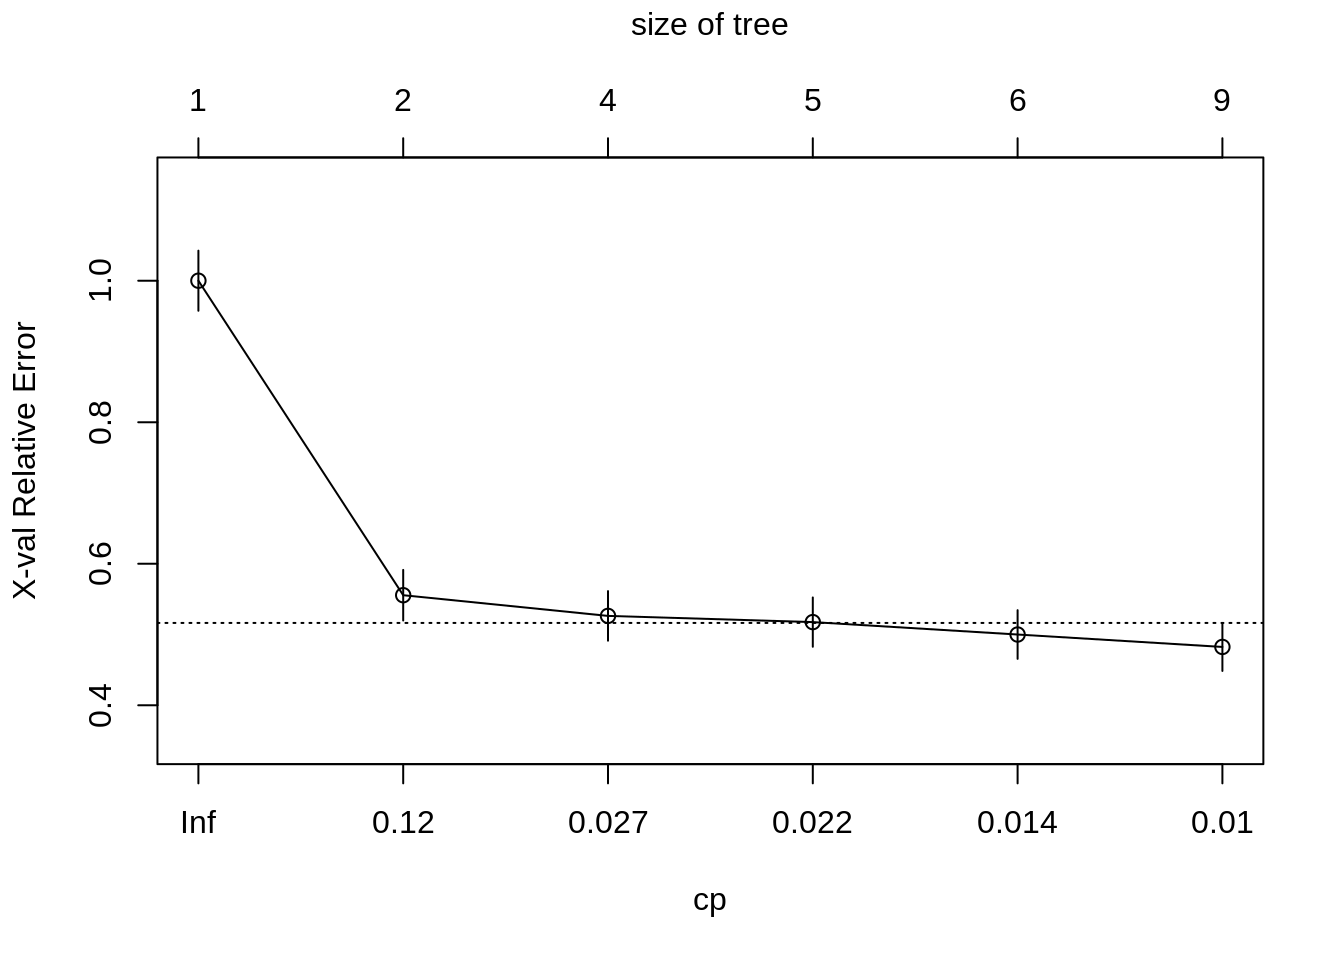
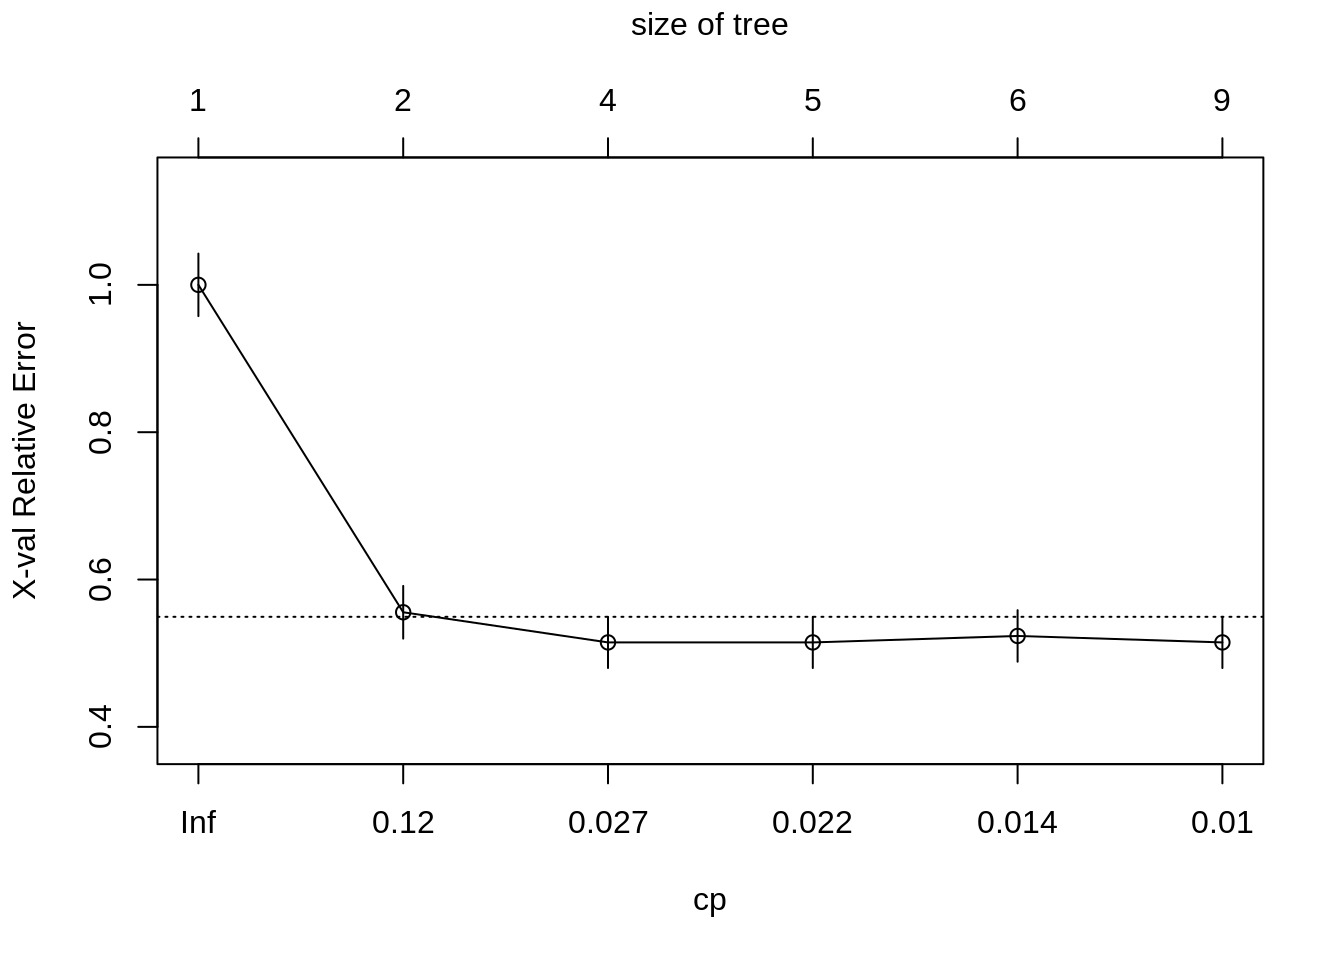
Deploy lebebr01/stat_thinking to github.com/lebebr01/stat_thinking.git:master

diff --git a/docs/descriptive-statistics-numerically-describing-the-sample-data.html b/docs/descriptive-statistics-numerically-describing-the-sample-data.html
@@ -561,6 +561,82 @@ Y = \begin{pmatrix}10 - 24\\ 10-24\\ 20-24\\ 30-24\\ 50-24\end{pmatrix} = \begin
 <pre><code>##   mae_adm_rate
 ## 1    0.1692953</code></pre>
 <!-- This is a test. -->
+<!-- ## Considering Groups -->
+<!-- We've spent a lot of time trying to reason about other variables that may be important in explaining variation in our variable of interest. So far we have only explored the variable without considering other variables, in practice that is not that useful. -->
+<!-- Instead, it is common to compute conditional statistics based on other characteristics in the data. An example may help to show the idea more clearly. -->
+<!-- ```{r} -->
+<!-- colleges %>% -->
+<!--   df_stats(adm_rate ~ region, median) -->
+<!-- ``` -->
+<!-- Presented above are the conditional medians for the higher education institutions in different areas of the country. More specifically, the data are essentially split into subgroups and the median is computed for each of those subgroups instead of pooling all institutions into a single data frame. The formula syntax is now `outcome ~ grouping` where the variable of interest (i.e. commonly a numeric variable) and the variable to the right of the `~` is the grouping variable. This syntax is similar to the violin plots that were created earlier. -->
+<!-- Can you see differences in the admission rates across the regions? -->
+<!-- One thing that is useful to add in when computing conditional statisics, is how many data points are in each group. This is particularly useful when the groups are different sizes, which is common. To do this, we can add another function to the `df_stats()` function. -->
+<!-- ```{r} -->
+<!-- colleges %>% -->
+<!--   df_stats(adm_rate ~ region, median, length) -->
+<!-- ``` -->
+<!-- This adds another columns which represents the number of observations that went into the median calculation for each group. The syntax above also shows that you can add additional functions separated by a comma in the `df_stats()` function and are not limited to a single function. We will take advantage of this feature later on. -->
+<!-- ### Adding additional groups -->
+<!-- What if we thought more than one variable was important in explaining variation in the outcome variable? These can also be added to the `df_stats()` function for additional conditional statistics. The key is to add another variable to the right-hand side of the formula argument. More than one variable are separated with a `+` symbol. -->
+<!-- ```{r} -->
+<!-- colleges %>% -->
+<!--   df_stats(adm_rate ~ region + preddeg, median, length) -->
+<!-- ``` -->
+<!-- ## Other statistics of center -->
+<!-- So far we have been discussing the median. The median attempts to provide a single number summary for the center of the distribution. It is a robust statistic, but likely isn't the most popular statistic to provide a location for the center of a distribution. The mean is often more commonly used as a measure of the center of a distribution. Part of this is due to the usage of the mean in common statistical methods and the mean also uses the values of all the data in the calculation. The median only considers the values of the middle score or scores, therefore this statistic is less sensitive to extreme values than the mean. I like to look at both statistics and this can provide some insight into the distribution of interest. We can add the mean using the `df_stats()` function by adding the function `mean`. -->
+<!-- ```{r} -->
+<!-- stats_compute <- colleges %>% -->
+<!--   df_stats(adm_rate ~ region, median, mean, length) -->
+<!-- stats_compute -->
+<!-- ``` -->
+<!-- Do you notice any trends in the direction the mean and median typically follow? More specifically, is the mean typically larger than the median or vice versa? -->
+<!-- Let's visualize them. -->
+<!-- ```{r} -->
+<!-- gf_histogram(~ adm_rate, data = colleges, bins = 30) %>% -->
+<!--   gf_facet_wrap(~ region) %>% -->
+<!--   gf_vline(color = 'blue', xintercept = ~ median_adm_rate, data = stats_compute, size = 1) %>% -->
+<!--   gf_vline(color = 'lightblue', xintercept = ~ mean_adm_rate, data = stats_compute, size = 1) -->
+<!-- ``` -->
+<!-- What is different about the distributions that have larger differences in the mean and median? -->
+<!-- ## Measures of Variation -->
+<!-- So far we have focused primarily on applying functions to columns of data to provide a single numeric summary for where the center of the distribution may lie. The center of the distribution is important, however the primary goal in research and with statistics is to try to understand the variation in the distribution. -->
+<!-- One crude measure of variation that is intuitive is the range of a variable. The range is the difference between the smallest and the largest number in the data. We can compute this with the `df_stats()` function. -->
+<!-- ```{r} -->
+<!-- colleges %>% -->
+<!--   df_stats(~ adm_rate, range) -->
+<!-- ``` -->
+<!-- The details of the `df_stats()` function are in the previous course notes. The output for this computation returns two values, the minimum and maximum value in the data and unsurprisingly, is 0 and 1 respectively.  -->
+<!-- ### Robust measure of variation -->
+<!-- The idea behind the IQR representing differences in percentiles allows us to extend this to different percentiles that may be more directly interpretable for a given situation. For example, suppose we wanted to know how spread out the middle 80% of the distribution is. We can do this directly by computing the 90th and 10th percentiles and finding the difference between the two. -->
+<!-- ```{r} -->
+<!-- mid_80 <- colleges %>% -->
+<!--   df_stats(~ adm_rate, quantile(c(0.1, 0.9)), nice_names = TRUE) -->
+<!-- mid_80 -->
+<!-- ``` -->
+<!-- As you can see, once you extend the amount of the distribution contained, the distance increases, now to 0.555 or 55.5% the the range of the middle 80% of the admission rate distribution. We can also visualize what this looks like. -->
+<!-- ```{r} -->
+<!-- gf_histogram(~ adm_rate, data = colleges, bins = 30, color = 'black') %>% -->
+<!--   gf_vline(color = 'blue', xintercept = ~ value, data = gather(mid_80), size = 1) -->
+<!-- ``` -->
+<!-- We can also view the exact percentages using the empirical cumulative density function. -->
+<!-- ```{r} -->
+<!-- gf_ecdf(~ adm_rate, data = colleges) %>% -->
+<!--   gf_vline(color = 'blue', xintercept = ~ value, data = gather(mid_80), size = 1) -->
+<!-- ``` -->
+<!-- ### Variation by Group -->
+<!-- These statistics can also be calculated by different grouping variables similar to what was done with statisitcs of center. Now the variable of interest is on the left-hand side of the equation and the grouping variable is on the right hand side. -->
+<!-- ```{r} -->
+<!-- iqr_groups <- colleges %>% -->
+<!--   df_stats(adm_rate ~ region, IQR, quantile(c(0.25, 0.75)), nice_names = TRUE) -->
+<!-- iqr_groups -->
+<!-- ``` -->
+<!-- This can also be visualized to see how these statistics vary across the groups. -->
+<!-- ```{r} -->
+<!-- gf_histogram(~ adm_rate, data = colleges, bins = 30, color = 'black') %>% -->
+<!--   gf_vline(color = 'blue', xintercept = ~ value,  -->
+<!--      data = filter(pivot_longer(iqr_groups, IQR_adm_rate:'X75.'), name %in% c('X25.', 'X75.')), size = 1) %>% -->
+<!--   gf_facet_wrap(~ region) -->
+<!-- ``` -->
 
 </div>
 </div>

diff --git a/docs/classification.html b/docs/classification.html
@@ -324,10 +324,10 @@ titanic &lt;-<span class="st"> </span><span class="kw">bind_rows</span>(titanic_
 ##         CP nsplit rel error  xerror     xstd
 ## 1 0.444444      0   1.00000 1.00000 0.042446
 ## 2 0.030702      1   0.55556 0.55556 0.035750
-## 3 0.023392      3   0.49415 0.52632 0.035043
-## 4 0.020468      4   0.47076 0.51754 0.034823
-## 5 0.010234      5   0.45029 0.50000 0.034372
-## 6 0.010000      8   0.41813 0.48246 0.033904</code></pre>
+## 3 0.023392      3   0.49415 0.51462 0.034749
+## 4 0.020468      4   0.47076 0.51462 0.034749
+## 5 0.010234      5   0.45029 0.52339 0.034970
+## 6 0.010000      8   0.41813 0.51462 0.034749</code></pre>
 <div class="sourceCode"><pre class="sourceCode r"><code class="sourceCode r"><span class="kw">plotcp</span>(class_tree)</code></pre></div>
 <p><img src="05-classification_files/figure-html/unnamed-chunk-6-1.png" width="672" /></p>
 <div class="sourceCode"><pre class="sourceCode r"><code class="sourceCode r">prune_class_tree &lt;-<span class="st"> </span><span class="kw">prune</span>(class_tree, <span class="dt">cp =</span> .<span class="dv">02</span>)

diff --git a/docs/03-descriptive.md b/docs/03-descriptive.md
@@ -711,3 +711,112 @@ colleges %>%
 
 <!-- This is a test. -->
 
+<!-- ## Considering Groups -->
+<!-- We've spent a lot of time trying to reason about other variables that may be important in explaining variation in our variable of interest. So far we have only explored the variable without considering other variables, in practice that is not that useful. -->
+
+<!-- Instead, it is common to compute conditional statistics based on other characteristics in the data. An example may help to show the idea more clearly. -->
+
+<!-- ```{r} -->
+<!-- colleges %>% -->
+<!--   df_stats(adm_rate ~ region, median) -->
+<!-- ``` -->
+
+<!-- Presented above are the conditional medians for the higher education institutions in different areas of the country. More specifically, the data are essentially split into subgroups and the median is computed for each of those subgroups instead of pooling all institutions into a single data frame. The formula syntax is now `outcome ~ grouping` where the variable of interest (i.e. commonly a numeric variable) and the variable to the right of the `~` is the grouping variable. This syntax is similar to the violin plots that were created earlier. -->
+
+<!-- Can you see differences in the admission rates across the regions? -->
+
+<!-- One thing that is useful to add in when computing conditional statisics, is how many data points are in each group. This is particularly useful when the groups are different sizes, which is common. To do this, we can add another function to the `df_stats()` function. -->
+
+<!-- ```{r} -->
+<!-- colleges %>% -->
+<!--   df_stats(adm_rate ~ region, median, length) -->
+<!-- ``` -->
+
+<!-- This adds another columns which represents the number of observations that went into the median calculation for each group. The syntax above also shows that you can add additional functions separated by a comma in the `df_stats()` function and are not limited to a single function. We will take advantage of this feature later on. -->
+
+<!-- ### Adding additional groups -->
+<!-- What if we thought more than one variable was important in explaining variation in the outcome variable? These can also be added to the `df_stats()` function for additional conditional statistics. The key is to add another variable to the right-hand side of the formula argument. More than one variable are separated with a `+` symbol. -->
+
+<!-- ```{r} -->
+<!-- colleges %>% -->
+<!--   df_stats(adm_rate ~ region + preddeg, median, length) -->
+<!-- ``` -->
+
+<!-- ## Other statistics of center -->
+<!-- So far we have been discussing the median. The median attempts to provide a single number summary for the center of the distribution. It is a robust statistic, but likely isn't the most popular statistic to provide a location for the center of a distribution. The mean is often more commonly used as a measure of the center of a distribution. Part of this is due to the usage of the mean in common statistical methods and the mean also uses the values of all the data in the calculation. The median only considers the values of the middle score or scores, therefore this statistic is less sensitive to extreme values than the mean. I like to look at both statistics and this can provide some insight into the distribution of interest. We can add the mean using the `df_stats()` function by adding the function `mean`. -->
+
+<!-- ```{r} -->
+<!-- stats_compute <- colleges %>% -->
+<!--   df_stats(adm_rate ~ region, median, mean, length) -->
+<!-- stats_compute -->
+<!-- ``` -->
+
+<!-- Do you notice any trends in the direction the mean and median typically follow? More specifically, is the mean typically larger than the median or vice versa? -->
+
+<!-- Let's visualize them. -->
+
+<!-- ```{r} -->
+<!-- gf_histogram(~ adm_rate, data = colleges, bins = 30) %>% -->
+<!--   gf_facet_wrap(~ region) %>% -->
+<!--   gf_vline(color = 'blue', xintercept = ~ median_adm_rate, data = stats_compute, size = 1) %>% -->
+<!--   gf_vline(color = 'lightblue', xintercept = ~ mean_adm_rate, data = stats_compute, size = 1) -->
+<!-- ``` -->
+
+<!-- What is different about the distributions that have larger differences in the mean and median? -->
+
+<!-- ## Measures of Variation -->
+
+<!-- So far we have focused primarily on applying functions to columns of data to provide a single numeric summary for where the center of the distribution may lie. The center of the distribution is important, however the primary goal in research and with statistics is to try to understand the variation in the distribution. -->
+
+<!-- One crude measure of variation that is intuitive is the range of a variable. The range is the difference between the smallest and the largest number in the data. We can compute this with the `df_stats()` function. -->
+
+<!-- ```{r} -->
+<!-- colleges %>% -->
+<!--   df_stats(~ adm_rate, range) -->
+<!-- ``` -->
+
+<!-- The details of the `df_stats()` function are in the previous course notes. The output for this computation returns two values, the minimum and maximum value in the data and unsurprisingly, is 0 and 1 respectively.  -->
+
+<!-- ### Robust measure of variation -->
+<!-- The idea behind the IQR representing differences in percentiles allows us to extend this to different percentiles that may be more directly interpretable for a given situation. For example, suppose we wanted to know how spread out the middle 80% of the distribution is. We can do this directly by computing the 90th and 10th percentiles and finding the difference between the two. -->
+
+<!-- ```{r} -->
+<!-- mid_80 <- colleges %>% -->
+<!--   df_stats(~ adm_rate, quantile(c(0.1, 0.9)), nice_names = TRUE) -->
+<!-- mid_80 -->
+<!-- ``` -->
+
+<!-- As you can see, once you extend the amount of the distribution contained, the distance increases, now to 0.555 or 55.5% the the range of the middle 80% of the admission rate distribution. We can also visualize what this looks like. -->
+
+<!-- ```{r} -->
+<!-- gf_histogram(~ adm_rate, data = colleges, bins = 30, color = 'black') %>% -->
+<!--   gf_vline(color = 'blue', xintercept = ~ value, data = gather(mid_80), size = 1) -->
+<!-- ``` -->
+
+<!-- We can also view the exact percentages using the empirical cumulative density function. -->
+
+<!-- ```{r} -->
+<!-- gf_ecdf(~ adm_rate, data = colleges) %>% -->
+<!--   gf_vline(color = 'blue', xintercept = ~ value, data = gather(mid_80), size = 1) -->
+<!-- ``` -->
+
+<!-- ### Variation by Group -->
+<!-- These statistics can also be calculated by different grouping variables similar to what was done with statisitcs of center. Now the variable of interest is on the left-hand side of the equation and the grouping variable is on the right hand side. -->
+
+<!-- ```{r} -->
+<!-- iqr_groups <- colleges %>% -->
+<!--   df_stats(adm_rate ~ region, IQR, quantile(c(0.25, 0.75)), nice_names = TRUE) -->
+<!-- iqr_groups -->
+<!-- ``` -->
+
+<!-- This can also be visualized to see how these statistics vary across the groups. -->
+
+<!-- ```{r} -->
+<!-- gf_histogram(~ adm_rate, data = colleges, bins = 30, color = 'black') %>% -->
+<!--   gf_vline(color = 'blue', xintercept = ~ value,  -->
+<!--      data = filter(pivot_longer(iqr_groups, IQR_adm_rate:'X75.'), name %in% c('X25.', 'X75.')), size = 1) %>% -->
+<!--   gf_facet_wrap(~ region) -->
+<!-- ``` -->
+
+
+

diff --git a/docs/05-classification.md b/docs/05-classification.md
@@ -249,10 +249,10 @@ printcp(class_tree)
 ##         CP nsplit rel error  xerror     xstd
 ## 1 0.444444      0   1.00000 1.00000 0.042446
 ## 2 0.030702      1   0.55556 0.55556 0.035750
-## 3 0.023392      3   0.49415 0.52632 0.035043
-## 4 0.020468      4   0.47076 0.51754 0.034823
-## 5 0.010234      5   0.45029 0.50000 0.034372
-## 6 0.010000      8   0.41813 0.48246 0.033904
+## 3 0.023392      3   0.49415 0.51462 0.034749
+## 4 0.020468      4   0.47076 0.51462 0.034749
+## 5 0.010234      5   0.45029 0.52339 0.034970
+## 6 0.010000      8   0.41813 0.51462 0.034749
 ```
 
 ```r
